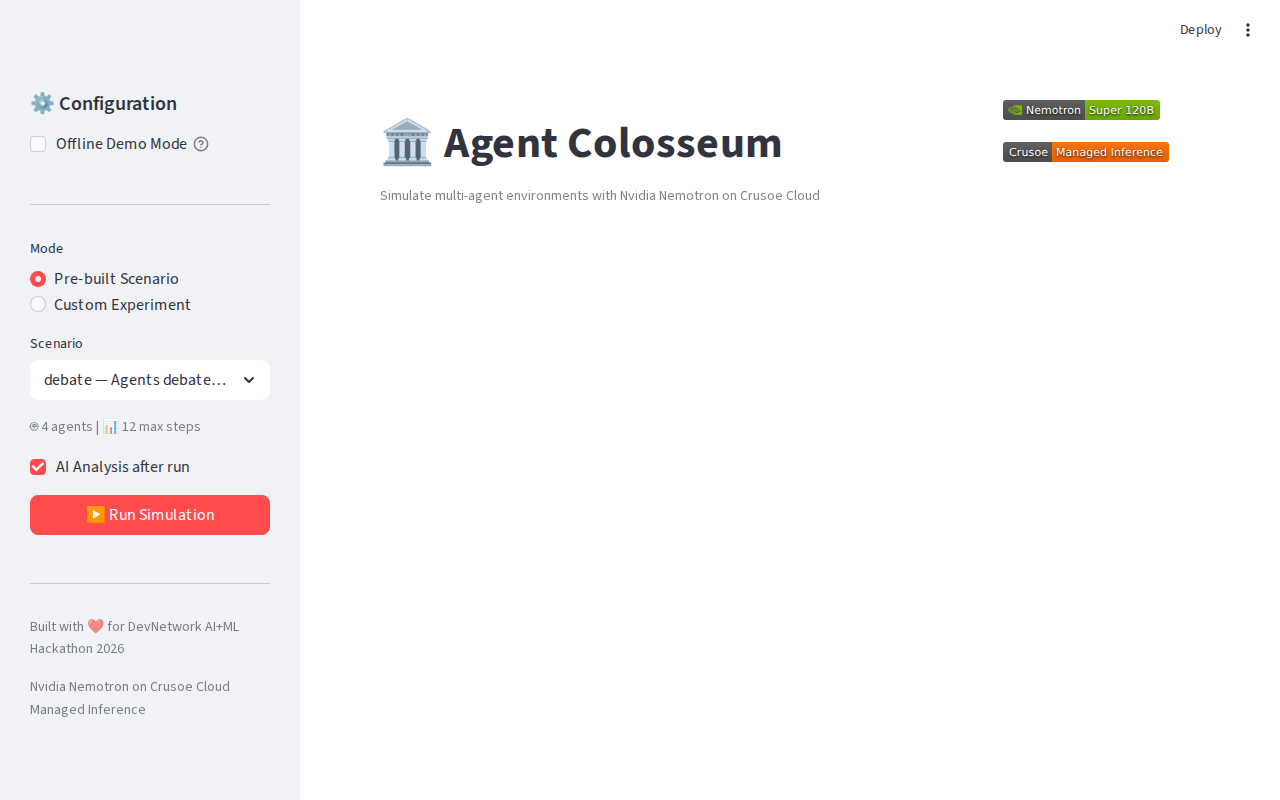
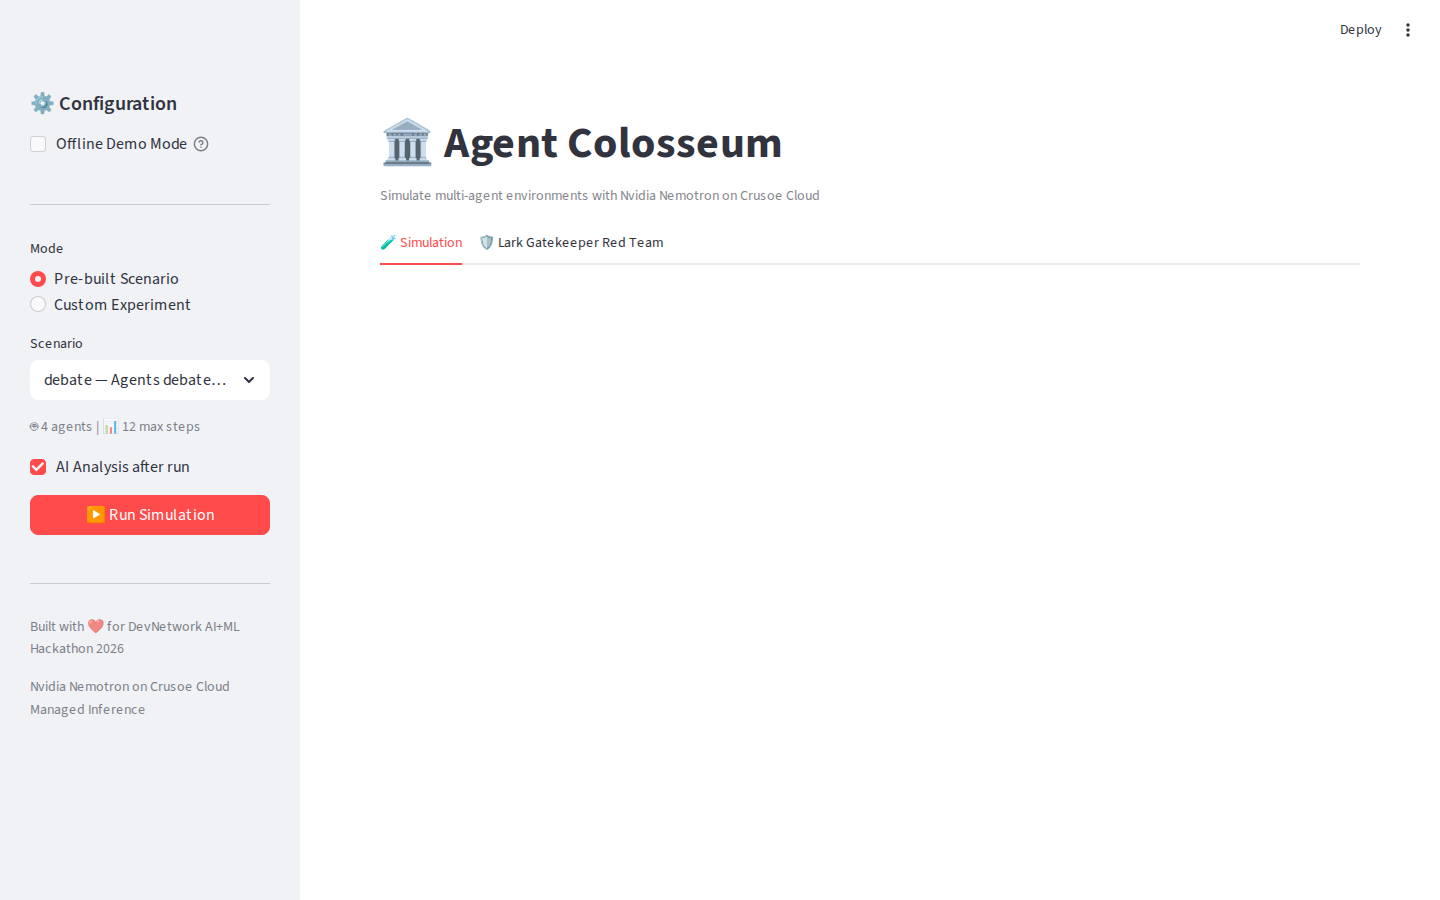
Replace screenshots with 6 distinct views including Lark Red Team tab

diff --git a/demo/capture_screenshots.py b/demo/capture_screenshots.py
@@ -1,0 +1,150 @@
+#!/usr/bin/env python3
+"""Capture 6 distinct DevPost screenshots with Playwright."""
+from __future__ import annotations
+
+import os
+import subprocess
+import sys
+import time
+from pathlib import Path
+
+PROJECT_ROOT = Path(__file__).resolve().parents[1]
+DEMO_DIR = PROJECT_ROOT / "demo"
+SCREENSHOT_DIR = DEMO_DIR / "screenshots"
+SCREENSHOT_DIR.mkdir(exist_ok=True)
+STREAMLIT_PORT = 8503
+STREAMLIT_URL = f"http://localhost:{STREAMLIT_PORT}"
+
+
+def start_streamlit():
+    print("Starting Streamlit...")
+    proc = subprocess.Popen(
+        [sys.executable, "-m", "streamlit", "run", str(DEMO_DIR / "app.py"),
+         "--server.headless", "true", "--server.port", str(STREAMLIT_PORT),
+         "--browser.gatherUsageStats", "false", "--logger.level", "error"],
+        stdout=subprocess.DEVNULL, stderr=subprocess.DEVNULL,
+        cwd=str(PROJECT_ROOT),
+        env={**os.environ, "STREAMLIT_SERVER_HEADLESS": "true"},
+    )
+    for _ in range(30):
+        try:
+            import urllib.request
+            urllib.request.urlopen(STREAMLIT_URL, timeout=1)
+            break
+        except Exception:
+            time.sleep(1)
+    else:
+        proc.kill()
+        raise RuntimeError("Streamlit didn't start")
+    print("  Running.")
+    return proc
+
+
+def capture():
+    from playwright.sync_api import sync_playwright
+
+    streamlit_proc = start_streamlit()
+
+    try:
+        with sync_playwright() as p:
+            browser = p.chromium.launch(headless=True)
+            page = browser.new_page(viewport={"width": 1440, "height": 900})
+
+            print("\n--- Capturing Screenshots ---")
+
+            # 1. Landing page — Simulation tab, header visible
+            print("[1/6] Landing page")
+            page.goto(STREAMLIT_URL, wait_until="networkidle", timeout=30000)
+            time.sleep(2)
+            page.screenshot(path=str(SCREENSHOT_DIR / "01_landing.png"), full_page=True)
+            print(f"  -> {SCREENSHOT_DIR / '01_landing.png'}")
+
+            # 2. Select debate scenario, show agent cards
+            print("[2/6] Debate scenario with agent cards")
+            try:
+                page.click('[data-baseweb="select"]', timeout=5000)
+                time.sleep(0.3)
+                page.click('text=debate — Agents debate', timeout=5000)
+            except Exception:
+                pass
+            time.sleep(1.5)
+            page.evaluate("window.scrollTo(0, 200)")
+            time.sleep(0.5)
+            page.screenshot(path=str(SCREENSHOT_DIR / "02_scenario_selected.png"), full_page=True)
+            print(f"  -> {SCREENSHOT_DIR / '02_scenario_selected.png'}")
+
+            # 3. Run simulation
+            print("[3/6] Running simulation...")
+            page.click("button:has-text('Run Simulation')")
+            try:
+                page.wait_for_selector("text=Complete", timeout=120000)
+            except Exception:
+                time.sleep(30)
+            time.sleep(1)
+            page.evaluate("window.scrollTo(0, 0)")
+            time.sleep(0.5)
+            page.screenshot(path=str(SCREENSHOT_DIR / "03_simulation_run.png"), full_page=True)
+            print(f"  -> {SCREENSHOT_DIR / '03_simulation_run.png'}")
+
+            # 4. Scroll to agent performance stats + timeline
+            print("[4/6] Agent stats + timeline")
+            page.evaluate("window.scrollTo(0, 500)")
+            time.sleep(0.5)
+            page.screenshot(path=str(SCREENSHOT_DIR / "04_agent_performance.png"), full_page=True)
+            print(f"  -> {SCREENSHOT_DIR / '04_agent_performance.png'}")
+
+            # 5. Switch to Lark tab, show score card
+            print("[5/6] Lark Gatekeeper Red Team tab")
+            page.evaluate("window.scrollTo(0, 0)")
+            time.sleep(0.3)
+            try:
+                page.click("text=🛡 Lark Gatekeeper Red Team", timeout=5000)
+                time.sleep(1)
+                page.click("button:has-text('Run Red Team')", timeout=5000)
+                try:
+                    page.wait_for_selector("text=Security Score", timeout=60000)
+                    print("  Red Team results loaded")
+                except Exception:
+                    time.sleep(8)
+                time.sleep(1)
+                page.evaluate("window.scrollTo(0, 0)")
+                time.sleep(0.5)
+                page.screenshot(path=str(SCREENSHOT_DIR / "05_lark_red_team.png"), full_page=True)
+                print(f"  -> {SCREENSHOT_DIR / '05_lark_red_team.png'}")
+            except Exception as e:
+                print(f"  Lark capture failed: {e}")
+
+            # 6. Scroll Lark results to show hardening analysis + workflows
+            print("[6/6] Lark hardening analysis + workflows")
+            page.evaluate("window.scrollTo(0, document.body.scrollHeight - 600)")
+            time.sleep(1)
+            page.screenshot(path=str(SCREENSHOT_DIR / "06_lark_analysis.png"), full_page=True)
+            print(f"  -> {SCREENSHOT_DIR / '06_lark_analysis.png'}")
+
+            browser.close()
+            print("\n--- Done ---")
+
+    finally:
+        streamlit_proc.terminate()
+        try:
+            streamlit_proc.wait(timeout=5)
+        except subprocess.TimeoutExpired:
+            streamlit_proc.kill()
+            streamlit_proc.wait()
+        print("Streamlit stopped.")
+
+
+def main():
+    print("=== Agent Colosseum Screenshot Capture ===\n")
+    env_file = PROJECT_ROOT / ".env"
+    if env_file.exists():
+        from dotenv import load_dotenv
+        load_dotenv(env_file)
+    capture()
+    print(f"\nScreenshots saved to {SCREENSHOT_DIR}/")
+    for p in sorted(SCREENSHOT_DIR.glob("*.png")):
+        print(f"  {p.name} ({p.stat().st_size:,} bytes)")
+
+
+if __name__ == "__main__":
+    main()
